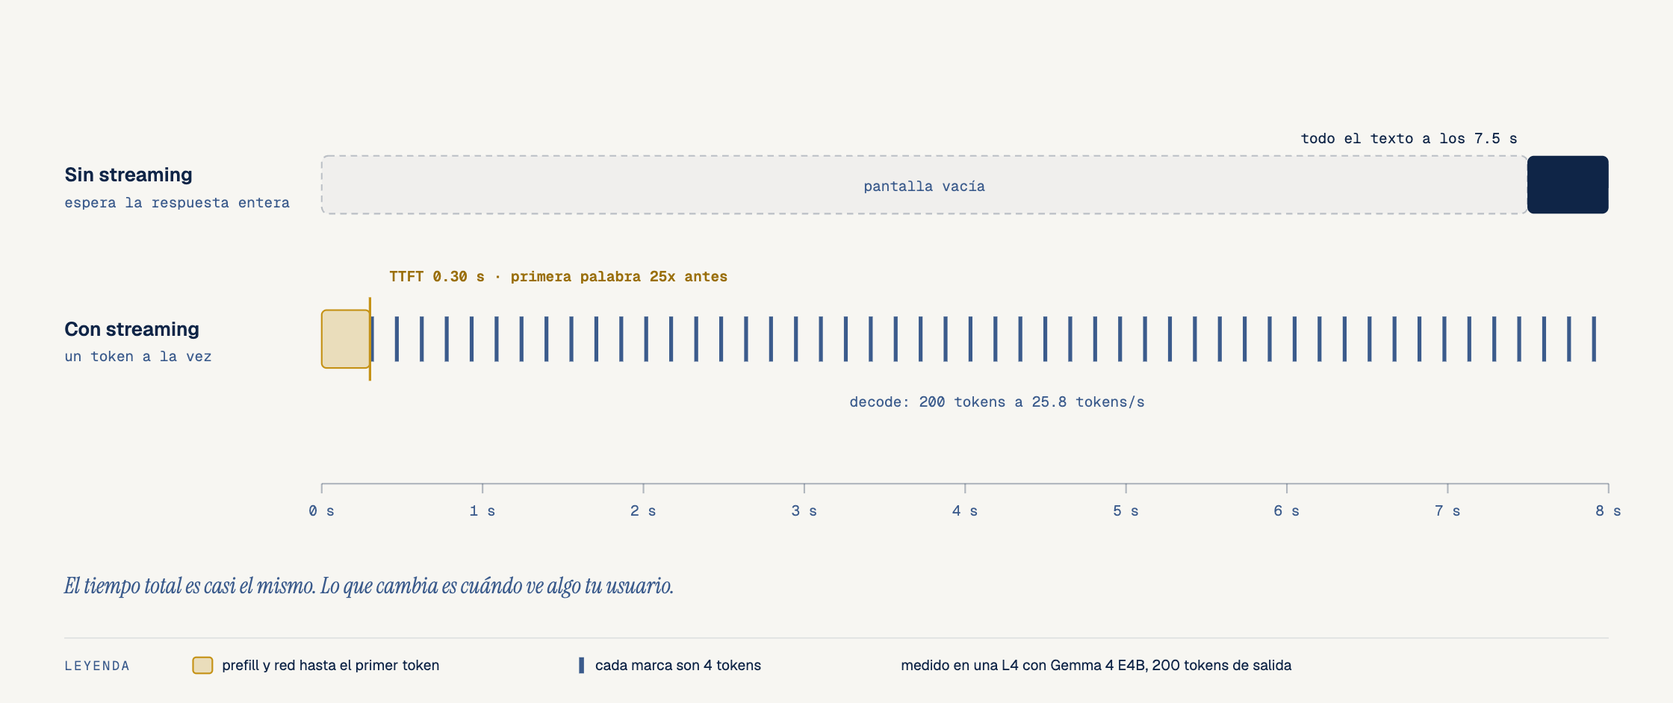
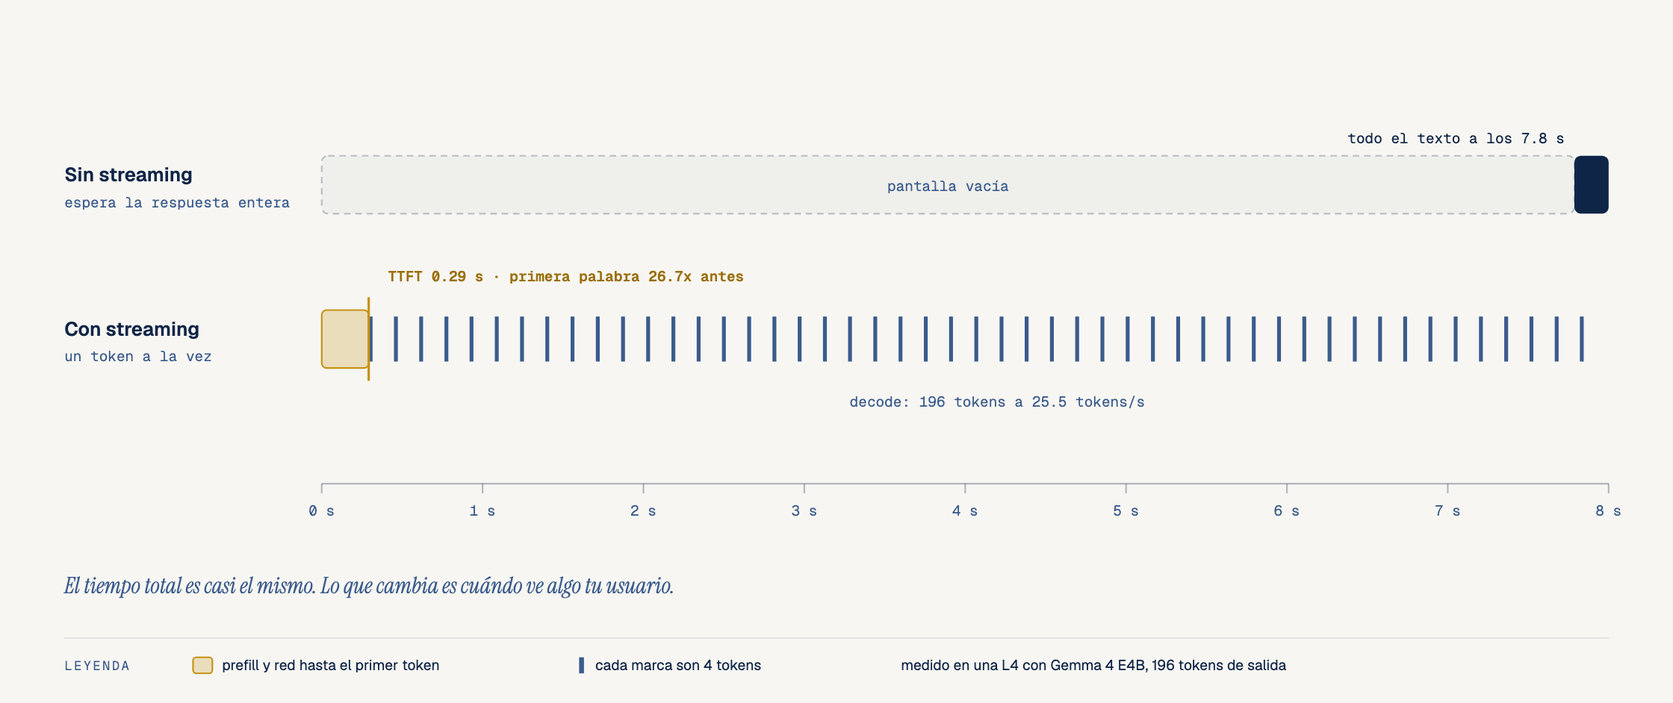
Cifras de la corrida del video (2026-11-10 18:20 UTC) en README, benchmarks y diagramas; quitar etiquetas internas

diff --git a/diagrams/02-streaming-ttft-timeline.html b/diagrams/02-streaming-ttft-timeline.html
@@ -20,12 +20,12 @@
 </head>
 <body>
   <div class="frame">
-    <p class="eyebrow">Timeline · C1 · vLLM Field Guide</p>
-    <h1>Con streaming la primera palabra llega a los 0.30 s, sin streaming a los 7.5 s</h1>
+    <p class="eyebrow">Timeline · vLLM Field Guide</p>
+    <h1>Con streaming la primera palabra llega a los 0.29 s, sin streaming a los 7.8 s</h1>
     <div class="diagram-container">
-      <svg viewBox="0 0 1040 436" xmlns="http://www.w3.org/2000/svg" role="img" aria-labelledby="c1-ttft-title c1-ttft-desc">
-        <title id="c1-ttft-title">Tiempo al primer token con y sin streaming</title>
-        <desc id="c1-ttft-desc">La misma respuesta de 200 tokens pedida dos veces a Gemma 4 E4B en una L4: sin streaming el texto aparece completo a los 7.5 segundos; con streaming el primer token llega a los 0.30 segundos y el resto a unos 26 tokens por segundo.</desc>
+      <svg viewBox="0 0 1040 436" xmlns="http://www.w3.org/2000/svg" role="img" aria-labelledby="ttft-title ttft-desc">
+        <title id="ttft-title">Tiempo al primer token con y sin streaming</title>
+        <desc id="ttft-desc">La misma respuesta de unos 200 tokens pedida dos veces a Gemma 4 E4B en una L4: sin streaming el texto aparece completo a los 7.8 segundos; con streaming el primer token llega a los 0.29 segundos y el resto a unos 25.5 tokens por segundo.</desc>
         <rect width="1040" height="436" fill="#F7F6F2"/>
         <line x1="200" y1="300" x2="1000" y2="300" stroke="rgba(15,37,71,0.30)" stroke-width="1"/>
         <line x1="200.0" y1="300" x2="200.0" y2="306" stroke="rgba(15,37,71,0.30)"/><text x="200.0" y="320" fill="#3B5B8C" font-size="9" font-family="'Geist Mono', monospace" text-anchor="middle">0 s</text>
@@ -38,70 +38,69 @@
         <line x1="900.0" y1="300" x2="900.0" y2="306" stroke="rgba(15,37,71,0.30)"/><text x="900.0" y="320" fill="#3B5B8C" font-size="9" font-family="'Geist Mono', monospace" text-anchor="middle">7 s</text>
         <line x1="1000.0" y1="300" x2="1000.0" y2="306" stroke="rgba(15,37,71,0.30)"/><text x="1000.0" y="320" fill="#3B5B8C" font-size="9" font-family="'Geist Mono', monospace" text-anchor="middle">8 s</text>
         <text x="40" y="112" fill="#0F2547" font-size="12" font-weight="600" font-family="'Geist', sans-serif">Sin streaming</text><text x="40" y="128" fill="#3B5B8C" font-size="9" font-family="'Geist Mono', monospace">espera la respuesta entera</text>
-        <rect x="200" y="96" width="749.5" height="36" rx="4" fill="rgba(15,37,71,0.03)" stroke="rgba(15,37,71,0.25)" stroke-dasharray="4,3"/>
-        <text x="574.8" y="118" fill="#3B5B8C" font-size="9" font-family="'Geist Mono', monospace" text-anchor="middle">pantalla vacía</text>
-        <rect x="949.5" y="96" width="50.5" height="36" rx="4" fill="#0F2547"/>
-        <text x="943.5" y="88" fill="#0F2547" font-size="9" font-family="'Geist Mono', monospace" text-anchor="end">todo el texto a los 7.5 s</text>
+        <rect x="200" y="96" width="778.7" height="36" rx="4" fill="rgba(15,37,71,0.03)" stroke="rgba(15,37,71,0.25)" stroke-dasharray="4,3"/>
+        <text x="589.4" y="118" fill="#3B5B8C" font-size="9" font-family="'Geist Mono', monospace" text-anchor="middle">pantalla vacía</text>
+        <rect x="978.7" y="96" width="21.3" height="36" rx="4" fill="#0F2547"/>
+        <text x="972.7" y="88" fill="#0F2547" font-size="9" font-family="'Geist Mono', monospace" text-anchor="end">todo el texto a los 7.8 s</text>
         <text x="40" y="208" fill="#0F2547" font-size="12" font-weight="600" font-family="'Geist', sans-serif">Con streaming</text><text x="40" y="224" fill="#3B5B8C" font-size="9" font-family="'Geist Mono', monospace">un token a la vez</text>
-        <rect x="200" y="192" width="30.0" height="36" rx="3" fill="rgba(197,146,22,0.25)" stroke="#C59216"/>
-        <rect x="230.0" y="196" width="2.4" height="28" fill="#3B5B8C"/>
-        <rect x="245.5" y="196" width="2.4" height="28" fill="#3B5B8C"/>
-        <rect x="261.0" y="196" width="2.4" height="28" fill="#3B5B8C"/>
-        <rect x="276.5" y="196" width="2.4" height="28" fill="#3B5B8C"/>
-        <rect x="292.0" y="196" width="2.4" height="28" fill="#3B5B8C"/>
-        <rect x="307.5" y="196" width="2.4" height="28" fill="#3B5B8C"/>
-        <rect x="323.0" y="196" width="2.4" height="28" fill="#3B5B8C"/>
-        <rect x="338.5" y="196" width="2.4" height="28" fill="#3B5B8C"/>
-        <rect x="354.0" y="196" width="2.4" height="28" fill="#3B5B8C"/>
-        <rect x="369.5" y="196" width="2.4" height="28" fill="#3B5B8C"/>
-        <rect x="385.0" y="196" width="2.4" height="28" fill="#3B5B8C"/>
-        <rect x="400.5" y="196" width="2.4" height="28" fill="#3B5B8C"/>
-        <rect x="416.0" y="196" width="2.4" height="28" fill="#3B5B8C"/>
-        <rect x="431.6" y="196" width="2.4" height="28" fill="#3B5B8C"/>
-        <rect x="447.1" y="196" width="2.4" height="28" fill="#3B5B8C"/>
-        <rect x="462.6" y="196" width="2.4" height="28" fill="#3B5B8C"/>
-        <rect x="478.1" y="196" width="2.4" height="28" fill="#3B5B8C"/>
-        <rect x="493.6" y="196" width="2.4" height="28" fill="#3B5B8C"/>
-        <rect x="509.1" y="196" width="2.4" height="28" fill="#3B5B8C"/>
-        <rect x="524.6" y="196" width="2.4" height="28" fill="#3B5B8C"/>
-        <rect x="540.1" y="196" width="2.4" height="28" fill="#3B5B8C"/>
-        <rect x="555.6" y="196" width="2.4" height="28" fill="#3B5B8C"/>
-        <rect x="571.1" y="196" width="2.4" height="28" fill="#3B5B8C"/>
-        <rect x="586.6" y="196" width="2.4" height="28" fill="#3B5B8C"/>
-        <rect x="602.1" y="196" width="2.4" height="28" fill="#3B5B8C"/>
-        <rect x="617.6" y="196" width="2.4" height="28" fill="#3B5B8C"/>
-        <rect x="633.1" y="196" width="2.4" height="28" fill="#3B5B8C"/>
-        <rect x="648.6" y="196" width="2.4" height="28" fill="#3B5B8C"/>
-        <rect x="664.1" y="196" width="2.4" height="28" fill="#3B5B8C"/>
-        <rect x="679.6" y="196" width="2.4" height="28" fill="#3B5B8C"/>
-        <rect x="695.1" y="196" width="2.4" height="28" fill="#3B5B8C"/>
-        <rect x="710.6" y="196" width="2.4" height="28" fill="#3B5B8C"/>
-        <rect x="726.1" y="196" width="2.4" height="28" fill="#3B5B8C"/>
-        <rect x="741.6" y="196" width="2.4" height="28" fill="#3B5B8C"/>
-        <rect x="757.1" y="196" width="2.4" height="28" fill="#3B5B8C"/>
-        <rect x="772.6" y="196" width="2.4" height="28" fill="#3B5B8C"/>
-        <rect x="788.1" y="196" width="2.4" height="28" fill="#3B5B8C"/>
-        <rect x="803.6" y="196" width="2.4" height="28" fill="#3B5B8C"/>
-        <rect x="819.1" y="196" width="2.4" height="28" fill="#3B5B8C"/>
-        <rect x="834.7" y="196" width="2.4" height="28" fill="#3B5B8C"/>
-        <rect x="850.2" y="196" width="2.4" height="28" fill="#3B5B8C"/>
-        <rect x="865.7" y="196" width="2.4" height="28" fill="#3B5B8C"/>
-        <rect x="881.2" y="196" width="2.4" height="28" fill="#3B5B8C"/>
-        <rect x="896.7" y="196" width="2.4" height="28" fill="#3B5B8C"/>
-        <rect x="912.2" y="196" width="2.4" height="28" fill="#3B5B8C"/>
-        <rect x="927.7" y="196" width="2.4" height="28" fill="#3B5B8C"/>
-        <rect x="943.2" y="196" width="2.4" height="28" fill="#3B5B8C"/>
-        <rect x="958.7" y="196" width="2.4" height="28" fill="#3B5B8C"/>
-        <rect x="974.2" y="196" width="2.4" height="28" fill="#3B5B8C"/>
-        <rect x="989.7" y="196" width="2.4" height="28" fill="#3B5B8C"/>
-        <line x1="230.0" y1="184" x2="230.0" y2="236" stroke="#C59216" stroke-width="1.5"/>
-        <rect x="238.0" y="164" width="232" height="14" rx="2" fill="#F7F6F2"/><text x="242.0" y="174" fill="#9A6F0B" font-size="9" font-weight="600" font-family="'Geist Mono', monospace">TTFT 0.30 s · primera palabra 25x antes</text>
-        <text x="620.0" y="252" fill="#3B5B8C" font-size="9" font-family="'Geist Mono', monospace" text-anchor="middle">decode: 200 tokens a 25.8 tokens/s</text>
+        <rect x="200" y="192" width="29.2" height="36" rx="3" fill="rgba(197,146,22,0.25)" stroke="#C59216"/>
+        <rect x="229.2" y="196" width="2.4" height="28" fill="#3B5B8C"/>
+        <rect x="244.9" y="196" width="2.4" height="28" fill="#3B5B8C"/>
+        <rect x="260.6" y="196" width="2.4" height="28" fill="#3B5B8C"/>
+        <rect x="276.3" y="196" width="2.4" height="28" fill="#3B5B8C"/>
+        <rect x="291.9" y="196" width="2.4" height="28" fill="#3B5B8C"/>
+        <rect x="307.6" y="196" width="2.4" height="28" fill="#3B5B8C"/>
+        <rect x="323.3" y="196" width="2.4" height="28" fill="#3B5B8C"/>
+        <rect x="339.0" y="196" width="2.4" height="28" fill="#3B5B8C"/>
+        <rect x="354.7" y="196" width="2.4" height="28" fill="#3B5B8C"/>
+        <rect x="370.4" y="196" width="2.4" height="28" fill="#3B5B8C"/>
+        <rect x="386.1" y="196" width="2.4" height="28" fill="#3B5B8C"/>
+        <rect x="401.7" y="196" width="2.4" height="28" fill="#3B5B8C"/>
+        <rect x="417.4" y="196" width="2.4" height="28" fill="#3B5B8C"/>
+        <rect x="433.1" y="196" width="2.4" height="28" fill="#3B5B8C"/>
+        <rect x="448.8" y="196" width="2.4" height="28" fill="#3B5B8C"/>
+        <rect x="464.5" y="196" width="2.4" height="28" fill="#3B5B8C"/>
+        <rect x="480.2" y="196" width="2.4" height="28" fill="#3B5B8C"/>
+        <rect x="495.9" y="196" width="2.4" height="28" fill="#3B5B8C"/>
+        <rect x="511.6" y="196" width="2.4" height="28" fill="#3B5B8C"/>
+        <rect x="527.2" y="196" width="2.4" height="28" fill="#3B5B8C"/>
+        <rect x="542.9" y="196" width="2.4" height="28" fill="#3B5B8C"/>
+        <rect x="558.6" y="196" width="2.4" height="28" fill="#3B5B8C"/>
+        <rect x="574.3" y="196" width="2.4" height="28" fill="#3B5B8C"/>
+        <rect x="590.0" y="196" width="2.4" height="28" fill="#3B5B8C"/>
+        <rect x="605.7" y="196" width="2.4" height="28" fill="#3B5B8C"/>
+        <rect x="621.4" y="196" width="2.4" height="28" fill="#3B5B8C"/>
+        <rect x="637.0" y="196" width="2.4" height="28" fill="#3B5B8C"/>
+        <rect x="652.7" y="196" width="2.4" height="28" fill="#3B5B8C"/>
+        <rect x="668.4" y="196" width="2.4" height="28" fill="#3B5B8C"/>
+        <rect x="684.1" y="196" width="2.4" height="28" fill="#3B5B8C"/>
+        <rect x="699.8" y="196" width="2.4" height="28" fill="#3B5B8C"/>
+        <rect x="715.5" y="196" width="2.4" height="28" fill="#3B5B8C"/>
+        <rect x="731.2" y="196" width="2.4" height="28" fill="#3B5B8C"/>
+        <rect x="746.8" y="196" width="2.4" height="28" fill="#3B5B8C"/>
+        <rect x="762.5" y="196" width="2.4" height="28" fill="#3B5B8C"/>
+        <rect x="778.2" y="196" width="2.4" height="28" fill="#3B5B8C"/>
+        <rect x="793.9" y="196" width="2.4" height="28" fill="#3B5B8C"/>
+        <rect x="809.6" y="196" width="2.4" height="28" fill="#3B5B8C"/>
+        <rect x="825.3" y="196" width="2.4" height="28" fill="#3B5B8C"/>
+        <rect x="841.0" y="196" width="2.4" height="28" fill="#3B5B8C"/>
+        <rect x="856.7" y="196" width="2.4" height="28" fill="#3B5B8C"/>
+        <rect x="872.3" y="196" width="2.4" height="28" fill="#3B5B8C"/>
+        <rect x="888.0" y="196" width="2.4" height="28" fill="#3B5B8C"/>
+        <rect x="903.7" y="196" width="2.4" height="28" fill="#3B5B8C"/>
+        <rect x="919.4" y="196" width="2.4" height="28" fill="#3B5B8C"/>
+        <rect x="935.1" y="196" width="2.4" height="28" fill="#3B5B8C"/>
+        <rect x="950.8" y="196" width="2.4" height="28" fill="#3B5B8C"/>
+        <rect x="966.5" y="196" width="2.4" height="28" fill="#3B5B8C"/>
+        <rect x="982.1" y="196" width="2.4" height="28" fill="#3B5B8C"/>
+        <line x1="229.2" y1="184" x2="229.2" y2="236" stroke="#C59216" stroke-width="1.5"/>
+        <rect x="237.2" y="164" width="232" height="14" rx="2" fill="#F7F6F2"/><text x="241.2" y="174" fill="#9A6F0B" font-size="9" font-weight="600" font-family="'Geist Mono', monospace">TTFT 0.29 s · primera palabra 26.7x antes</text>
+        <text x="620.0" y="252" fill="#3B5B8C" font-size="9" font-family="'Geist Mono', monospace" text-anchor="middle">decode: 196 tokens a 25.5 tokens/s</text>
         <text x="40" y="368" fill="#3B5B8C" font-size="14" font-style="italic" font-family="'Instrument Serif', serif">El tiempo total es casi el mismo. Lo que cambia es cuándo ve algo tu usuario.</text>
         <line x1="40" y1="396" x2="1000" y2="396" stroke="rgba(15,37,71,0.10)" stroke-width="0.8"/><text x="40" y="416" fill="#3B5B8C" font-size="8" font-family="'Geist Mono', monospace" letter-spacing="0.14em">LEYENDA</text>
         <rect x="120" y="408" width="12" height="10" rx="2" fill="rgba(197,146,22,0.25)" stroke="#C59216"/><text x="138" y="416" fill="#0F2547" font-size="9" font-family="'Geist', sans-serif">prefill y red hasta el primer token</text>
         <rect x="360" y="408" width="3" height="10" fill="#3B5B8C"/><text x="370" y="416" fill="#0F2547" font-size="9" font-family="'Geist', sans-serif">cada marca son 4 tokens</text>
-        <text x="560" y="416" fill="#0F2547" font-size="9" font-family="'Geist', sans-serif">medido en una L4 con Gemma 4 E4B, 200 tokens de salida</text>
+        <text x="560" y="416" fill="#0F2547" font-size="9" font-family="'Geist', sans-serif">medido en una L4 con Gemma 4 E4B, 196 tokens de salida</text>
       </svg>
     </div>
   </div>

diff --git a/diagrams/03-cost-per-million-tokens.html b/diagrams/03-cost-per-million-tokens.html
@@ -20,19 +20,19 @@
 </head>
 <body>
   <div class="frame">
-    <p class="eyebrow">Bar chart · C1 · vLLM Field Guide</p>
+    <p class="eyebrow">Bar chart · vLLM Field Guide</p>
     <h1>Tu GPU cobra por hora, así que el millón de tokens sale tan barato como la llenes</h1>
     <div class="diagram-container">
-      <svg viewBox="0 0 1040 432" xmlns="http://www.w3.org/2000/svg" role="img" aria-labelledby="c1-cost-title c1-cost-desc">
-        <title id="c1-cost-title">Costo por millón de tokens de salida</title>
-        <desc id="c1-cost-desc">Costo por millón de tokens de salida de Gemma 4 E4B en vLLM sobre una L4 con uno y con ocho usuarios a la vez, comparado con el precio de lista de gemini-3.8-flash hoy y desde 2027.</desc>
+      <svg viewBox="0 0 1040 432" xmlns="http://www.w3.org/2000/svg" role="img" aria-labelledby="cost-title cost-desc">
+        <title id="cost-title">Costo por millón de tokens de salida</title>
+        <desc id="cost-desc">Costo por millón de tokens de salida de Gemma 4 E4B en vLLM sobre una L4 con uno y con ocho usuarios a la vez, comparado con el precio de lista de gemini-3.8-flash hoy y desde 2027.</desc>
         <rect width="1040" height="432" fill="#F7F6F2"/>
         <text x="40" y="80" fill="#0F2547" font-size="12" font-weight="600" font-family="'Geist', sans-serif">vLLM, 1 usuario a la vez</text><text x="40" y="96" fill="#3B5B8C" font-size="9" font-family="'Geist Mono', monospace">25.3 tokens/s</text>
         <rect x="320" y="64" width="585.0" height="36" rx="3" fill="rgba(15,37,71,0.10)" stroke="#3B5B8C"/>
         <text x="915.0" y="87" fill="#0F2547" font-size="12" font-weight="600" font-family="'Geist Mono', monospace">$15.60</text>
-        <text x="40" y="152" fill="#0F2547" font-size="12" font-weight="600" font-family="'Geist', sans-serif">vLLM, 8 usuarios a la vez</text><text x="40" y="168" fill="#3B5B8C" font-size="9" font-family="'Geist Mono', monospace">193 tokens/s</text>
-        <rect x="320" y="136" width="76.5" height="36" rx="3" fill="rgba(197,146,22,0.18)" stroke="#C59216"/>
-        <text x="406.5" y="159" fill="#9A6F0B" font-size="12" font-weight="600" font-family="'Geist Mono', monospace">$2.04</text>
+        <text x="40" y="152" fill="#0F2547" font-size="12" font-weight="600" font-family="'Geist', sans-serif">vLLM, 8 usuarios a la vez</text><text x="40" y="168" fill="#3B5B8C" font-size="9" font-family="'Geist Mono', monospace">192 tokens/s</text>
+        <rect x="320" y="136" width="77.2" height="36" rx="3" fill="rgba(197,146,22,0.18)" stroke="#C59216"/>
+        <text x="407.2" y="159" fill="#9A6F0B" font-size="12" font-weight="600" font-family="'Geist Mono', monospace">$2.06</text>
         <text x="40" y="224" fill="#0F2547" font-size="12" font-weight="600" font-family="'Geist', sans-serif">gemini-3.8-flash, 2027</text><text x="40" y="240" fill="#3B5B8C" font-size="9" font-family="'Geist Mono', monospace">precio de lista</text>
         <rect x="320" y="208" width="281.2" height="36" rx="3" fill="rgba(15,37,71,0.04)" stroke="rgba(15,37,71,0.35)" stroke-dasharray="4,3"/>
         <text x="611.2" y="231" fill="#0F2547" font-size="12" font-weight="600" font-family="'Geist Mono', monospace">$7.50</text>

diff --git a/diagrams/01-inference-server-anatomy.html b/diagrams/01-inference-server-anatomy.html
@@ -20,12 +20,12 @@
 </head>
 <body>
   <div class="frame">
-    <p class="eyebrow">Arquitectura · Serie C · vLLM Field Guide</p>
+    <p class="eyebrow">Arquitectura · vLLM Field Guide</p>
     <h1>Tu app habla con la misma API de siempre, y del otro lado hay una GPU tuya</h1>
     <div class="diagram-container">
-      <svg viewBox="0 0 1040 520" xmlns="http://www.w3.org/2000/svg" role="img" aria-labelledby="c1-anatomy-title c1-anatomy-desc">
-        <title id="c1-anatomy-title">Anatomía de un servidor vLLM con Gemma en Cloud Run</title>
-        <desc id="c1-anatomy-desc">La aplicación usa el cliente de OpenAI contra localhost, un túnel de gcloud firma la petición y la manda a Cloud Run, donde vLLM recibe HTTP y ejecuta Gemma en una GPU L4 cuya memoria se reparte entre los pesos, leídos desde Cloud Storage, y el KV-cache.</desc>
+      <svg viewBox="0 0 1040 520" xmlns="http://www.w3.org/2000/svg" role="img" aria-labelledby="anatomy-title anatomy-desc">
+        <title id="anatomy-title">Anatomía de un servidor vLLM con Gemma en Cloud Run</title>
+        <desc id="anatomy-desc">La aplicación usa el cliente de OpenAI contra localhost, un túnel de gcloud firma la petición y la manda a Cloud Run, donde vLLM recibe HTTP y ejecuta Gemma en una GPU L4 cuya memoria se reparte entre los pesos, leídos desde Cloud Storage, y el KV-cache.</desc>
         <defs>
           <marker id="c1a-arrow" markerWidth="8" markerHeight="6" refX="7" refY="3" orient="auto"><polygon points="0 0, 8 3, 0 6" fill="#3B5B8C"/></marker>
           <marker id="c1a-arrow-accent" markerWidth="8" markerHeight="6" refX="7" refY="3" orient="auto"><polygon points="0 0, 8 3, 0 6" fill="#C59216"/></marker>

diff --git a/vllm_lab/client.py b/vllm_lab/client.py
@@ -22,7 +22,7 @@ MODEL = os.environ.get("VLLM_MODEL_NAME", "gemma")
 def fresh(prompt: str) -> str:
     """Gives a prompt a unique first line.
 
-    vLLM keeps the KV-cache of prompts it already read (prefix caching, unit C3). A second
+    vLLM keeps the KV-cache of prompts it already read (prefix caching, see many-users-one-gpu-with-vllm). A second
     request that starts with the same text skips most of the prefill and looks faster than it
     is. Timing experiments start every prompt with a random id so each one is read from zero.
     """

diff --git a/experiments/05_cost_per_million_tokens.py b/experiments/05_cost_per_million_tokens.py
@@ -4,7 +4,7 @@ Measures generated tokens per second with 1 user and with 8 users at the same ti
 turns that into dollars per million output tokens using the hourly price of the Cloud Run
 instance (benchmarks/pricing.json, a list price you should re-check). One user leaves the
 GPU mostly idle; with eight, the same instance writes several times more tokens per hour.
-That gap is the topic of C3.
+That gap is the topic of many-users-one-gpu-with-vllm.
 
     python experiments/05_cost_per_million_tokens.py [--mock]
 """

diff --git a/verify_first_server.py b/verify_first_server.py
@@ -1,4 +1,4 @@
-"""The Outside Judge for C1: runs the five experiments once and checks what must hold.
+"""The Outside Judge for your first vLLM server: runs the five experiments once and checks what must hold.
 
     python verify_first_server.py          # live vLLM through the tunnel (real numbers)
     python verify_first_server.py --mock   # fake server, checks the logic without a GPU

diff --git a/README.md b/README.md
@@ -3,7 +3,7 @@
 - **Por qué es relevante:** Si ya llamaste una API de IA, ya sabes casi todo. Aquí pones el modelo de tu lado: Gemma 4 corriendo en una GPU tuya en Google Cloud, con la misma API que ya usas. Tu código cambia una línea, el `base_url`, y a cambio ganas control sobre los datos, la versión del modelo y el costo.
 - **Para quién es:** Desarrolladores que saben Python y han llamado una API de IA, pero nunca levantaron un modelo propio. No hace falta machine learning.
 - **Qué vas a medir:** el tiempo al primer token (TTFT), los tokens por segundo, la diferencia entre leer el prompt (prefill) y escribir la respuesta (decode), y cuánto cuesta un millón de tokens con 1 y con 8 usuarios.
-- **Serie completa:** unidad C1 de la Serie C, [Field Guide: Servir Modelos Abiertos con vLLM](https://github.com/ykro/vllm-for-software-devs-field-guide).
+- **Serie completa:** primera unidad del [Field Guide: Servir Modelos Abiertos con vLLM](https://github.com/ykro/vllm-for-software-devs-field-guide).
 
 ---
 
@@ -31,15 +31,15 @@ La instancia cuesta lo mismo por hora con uno o con ocho usuarios. El costo por 
 
 ## Resultados reales (`verify_first_server.py`)
 
-Corrida del 2026-11-10 contra vLLM `0.33.0` con `google/gemma-4-E4B-it` en bf16, Cloud Run en `us-east4` con 1 NVIDIA L4 (8 vCPU, 32 GiB), desde una laptop en Guatemala a través del túnel. Los tiempos incluyen la ida y vuelta por la red y cambian de una corrida a otra; las verificaciones revisan comportamiento y las cifras exactas quedan en el JSON.
+Corrida del 2026-11-10 a las 18:20 UTC (la del video de práctica) contra vLLM `0.33.0` con `google/gemma-4-E4B-it` en bf16, Cloud Run en `us-east4` con 1 NVIDIA L4 (8 vCPU, 32 GiB), desde una laptop en Guatemala a través del túnel. Los tiempos incluyen la ida y vuelta por la red y cambian de una corrida a otra; las verificaciones revisan comportamiento y las cifras exactas quedan en el JSON.
 
 | Experimento | Archivo | Qué se mide | Resultado |
 | :--- | :--- | :--- | :--- |
-| **01. El modelo es un endpoint HTTP** | `experiments/01_hello_vllm_over_http.py` | `GET /v1/models` y una pregunta con `urllib`, sin SDK | 22 tokens de entrada, 31 de salida, **1.45 s** |
+| **01. El modelo es un endpoint HTTP** | `experiments/01_hello_vllm_over_http.py` | `GET /v1/models` y una pregunta con `urllib`, sin SDK | 22 tokens de entrada, 31 de salida, **1.50 s** |
 | **02. Mismo código, otro servidor** | `experiments/02_same_code_any_provider.py` | Una función de app con el cliente de OpenAI; solo cambia `base_url` | Resumen correcto del ticket, **idéntico** dos veces con `temperature=0` y `seed` |
-| **03. Streaming y TTFT** | `experiments/03_streaming_ttft.py` | La misma respuesta de 200 tokens, esperando completa y con streaming | Completa a los **7.50 s**; con streaming el primer token a los **0.30 s** (**25x** antes), **25.8 tokens/s** |
-| **04. Prefill contra decode** | `experiments/04_prefill_vs_decode.py` | TTFT con prompts de 104 a 7,230 tokens; tiempo total con 16 a 256 tokens de salida | TTFT de **0.30 s a 1.83 s**; prefill a unos **4,600 tokens/s** contra decode a **26 tokens/s** (**178x**) |
-| **05. Costo por millón de tokens** | `experiments/05_cost_per_million_tokens.py` | Tokens de salida por segundo con 1 y con 8 usuarios, y el precio de la instancia | **USD 15.60** con 1 usuario, **USD 2.04** con 8 (**7.6x** más throughput) |
+| **03. Streaming y TTFT** | `experiments/03_streaming_ttft.py` | La misma respuesta de 200 tokens, esperando completa y con streaming | Completa a los **7.79 s**; con streaming el primer token a los **0.292 s** (**26.7x** antes), **25.5 tokens/s** |
+| **04. Prefill contra decode** | `experiments/04_prefill_vs_decode.py` | TTFT con prompts de 102 a 7,231 tokens; tiempo total con 16 a 256 tokens de salida | TTFT de **0.31 s a 1.82 s**; prefill a unos **4,717 tokens/s** contra decode a **26 tokens/s** (**181x**) |
+| **05. Costo por millón de tokens** | `experiments/05_cost_per_million_tokens.py` | Tokens de salida por segundo con 1 y con 8 usuarios, y el precio de la instancia | **USD 15.60** con 1 usuario, **USD 2.06** con 8 (**7.6x** más throughput) |
 
 Salida íntegra del juez (la misma corrida que `benchmarks/latest_results.json`):
 
@@ -53,11 +53,11 @@ Client  : Python 3.12.11 | Darwin arm64
 ----------------------------------------------------------------------------------------------------
 Experiment                       | Measured                           | Result               | Check
 ----------------------------------------------------------------------------------------------------
-01. Model over plain HTTP        | gemma (53 tok)                     | 1.45 s               | PASS
+01. Model over plain HTTP        | gemma (53 tok)                     | 1.50 s               | PASS
 02. Same code, OpenAI SDK        | summary at temperature 0           | repeatable           | PASS
-03. Streaming vs blocking        | TTFT 0.300 s                       | 25.8 tok/s           | PASS
-04. Prefill vs decode            | 104->7230 tok: 0.299->1.833 s      | read 178x faster     | PASS
-05. Cost per 1M output tokens    | 1 user $15.60                      | 8 users $2.04        | PASS
+03. Streaming vs blocking        | TTFT 0.292 s                       | 25.5 tok/s           | PASS
+04. Prefill vs decode            | 102->7231 tok: 0.308->1.819 s      | read 181x faster     | PASS
+05. Cost per 1M output tokens    | 1 user $15.60                      | 8 users $2.06        | PASS
 ----------------------------------------------------------------------------------------------------
 Times include the network round trip through the tunnel and vary run to run.
 Prices: Cloud Run, 1 NVIDIA L4 (sin redundancia zonal), 8 vCPU, 32 GiB, instance-based billing, $1.4209/h list price checked 2026-11-10.
@@ -66,11 +66,11 @@ ALL CHECKS PASSED.
 
 ### Cómo leer estas cifras
 
-- **El piso de red.** El TTFT de un prompt corto (0.30 s) es casi todo ida y vuelta por el túnel y la cola del servidor. Por eso el experimento 04 calcula la velocidad del prefill con la pendiente entre el prompt más corto y el más largo, que descuenta ese piso.
-- **Prefix caching.** vLLM guarda el KV-cache de los prompts que ya leyó y reutiliza los comienzos repetidos. Para medir el prefill real, cada prompt de los experimentos empieza con un identificador único (`fresh()` en `vllm_lab/client.py`). Sin eso, la segunda corrida parece tres veces más rápida. El tema completo está en C3.
-- **Un usuario deja la GPU ociosa.** Con un usuario la L4 escribe 25 tokens/s; con ocho, 193 tokens/s en total, con casi la misma velocidad por usuario. Esa es la razón del precio por millón: la hora cuesta lo mismo.
+- **El piso de red.** El TTFT de un prompt corto (0.31 s) es casi todo ida y vuelta por el túnel y la cola del servidor. Por eso el experimento 04 calcula la velocidad del prefill con la pendiente entre el prompt más corto y el más largo, que descuenta ese piso.
+- **Prefix caching.** vLLM guarda el KV-cache de los prompts que ya leyó y reutiliza los comienzos repetidos. Para medir el prefill real, cada prompt de los experimentos empieza con un identificador único (`fresh()` en `vllm_lab/client.py`). Sin eso, la segunda corrida parece tres veces más rápida. El tema completo está en la tercera unidad del Field Guide (muchos usuarios en una GPU).
+- **Un usuario deja la GPU ociosa.** Con un usuario la L4 escribe 25 tokens/s; con ocho, 192 tokens/s en total, con casi la misma velocidad por usuario. Esa es la razón del precio por millón: la hora cuesta lo mismo.
 - **Precios.** `benchmarks/pricing.json` guarda el precio de lista de Cloud Run (USD 1.42 por hora por la L4, 8 vCPU y 32 GiB, consultado el 2026-11-10) y su fuente. No incluye descuentos ni el tiempo encendido sin tráfico.
-- **Arranque en frío.** Con `min-instances 0`, la primera petición enciende la instancia. En nuestras pruebas tomó entre 8 y 9 minutos: unos 260 s para traer los 15 GiB de pesos (lo mismo desde Hugging Face que desde el bucket montado), unos 55 s de compilación y el resto en preparar el motor. Acelerarlo es parte de C5.
+- **Arranque en frío.** Con `min-instances 0`, la primera petición enciende la instancia. En nuestras pruebas tomó entre 8 y 9 minutos: unos 260 s para traer los 15 GiB de pesos (lo mismo desde Hugging Face que desde el bucket montado), unos 55 s de compilación y el resto en preparar el motor. Acelerarlo es parte de la quinta unidad (vLLM en producción).
 
 ---
 
